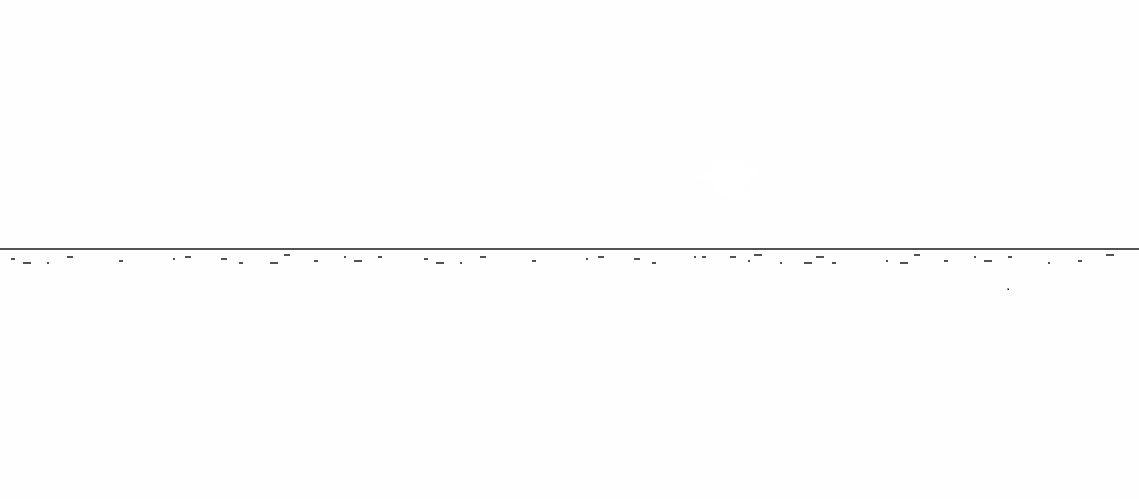
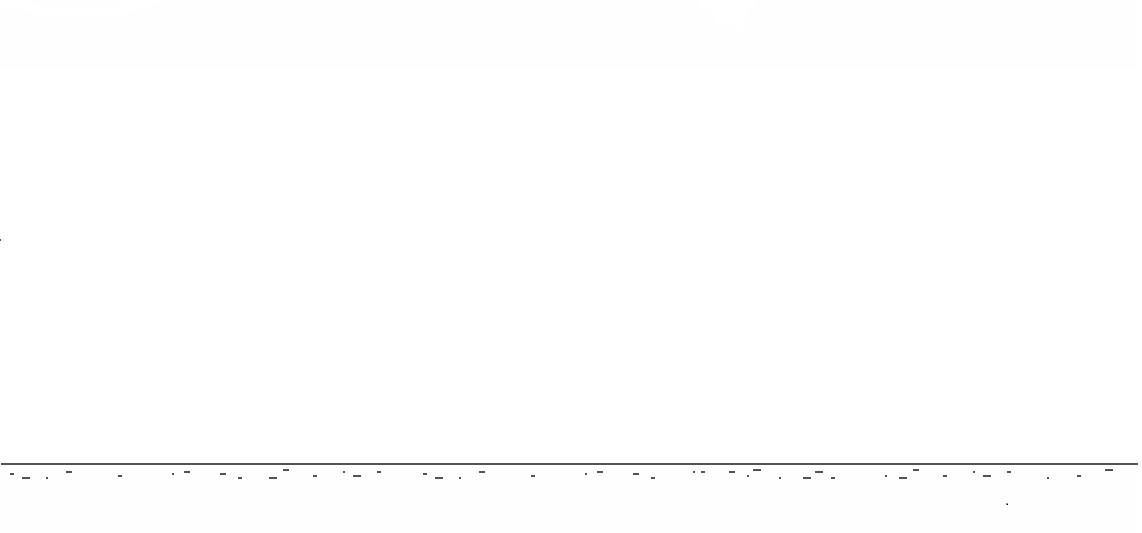
started dino

Changed region(s): [[0.0, 0.8417, 1.0, 0.9018], [0.0, 0.481, 1.0, 0.511]]

diff --git a/css/sasha.css b/css/sasha.css
@@ -1,0 +1,31 @@
+.dino{
+    position: relative;
+    background-image: url(../images/dino-back.png);
+    background-size: contain;
+    background-position: bottom;
+
+}
+.dino-output{
+    padding-bottom: 140px;
+}
+.dino-char-img{
+    width: 50px;
+    height: 50px;
+}
+.dino-char{
+    display: block;
+    position: absolute;
+    z-index: 1;
+    transform: translateY(-55px);
+    left: 50px;
+}
+.dino-cactus{
+    display: block;
+    position: absolute;
+    z-index: 1;
+    top: 190px;
+    right: 0;
+}
+.dino-cactus-img{
+    height: 30px;
+}

diff --git a/js/sasha.js b/js/sasha.js
@@ -56,10 +56,10 @@ calcList.addEventListener("click", (e) => {
   oper = e.target.textContent;
 });
 calcForm.addEventListener("submit", (e) => {
-  e.preventDefault()
+  e.preventDefault();
   const elem = e.currentTarget.elements;
-  const a = Number(elem.num1.value)
-  const b = Number(elem.num2.value)
+  const a = Number(elem.num1.value);
+  const b = Number(elem.num2.value);
   let output = 0;
   switch (oper) {
     case "+":
@@ -81,3 +81,28 @@ calcForm.addEventListener("submit", (e) => {
   }
   calcOutput.textContent = output;
 });
+//dino
+const dino = document.querySelector(".dino-char");
+const cactus = document.querySelector(".dino-cactus");
+const speed = 6;
+let positionX = 0;
+const target = screen.availWidth;
+function move() {
+  if (positionX < target) {
+    positionX += speed;
+    cactus.style.transform = `translate(-${positionX}px)`;
+    requestAnimationFrame(move);
+  }
+}
+document.addEventListener("keydown", (e) => {
+  if (e.code === "Space") {
+    requestAnimationFrame(move);
+  }
+});
+document.addEventListener("click", (e) => {
+  dino.style.transform = "translateY(-105px)";
+  setTimeout(() => {
+    dino.style.transform = "translateY(-55px)";
+  }, 200);
+});
+

diff --git a/index.html b/index.html
@@ -49,6 +49,7 @@
         <button type="button" class="rps-comp">Варіант комп’ютера</button>
       </section>
       <section class="calc">
+        <h2 class="section-title">Калькулятор</h2>
         <form action="" class="calc-form">
           <input type="text" class="calc-first" name="num1" placeholder="Введіть число">
           <ul class="calc-list">
@@ -61,6 +62,13 @@
           <button type="submit" class="calc-submit">=</button>
         </form>
         <p class="calc-output">Результат</p>
+      </section>
+      <section class="dino">
+        <h2 class="dino-title">Google динозавр</h2>
+        <p class="dino-output">Press space to start</p>
+        <div class="dino-char"><img src="./images/dino.png" alt="" class="dino-char-img"></div>
+        <div class="dino-cactus"><img src="./images/cactus.png" alt="" class="dino-cactus-img"></div>
+        <button type="button" class="dino-retry"></button>
       </section>
     </main>
     <footer class="footer"></footer>